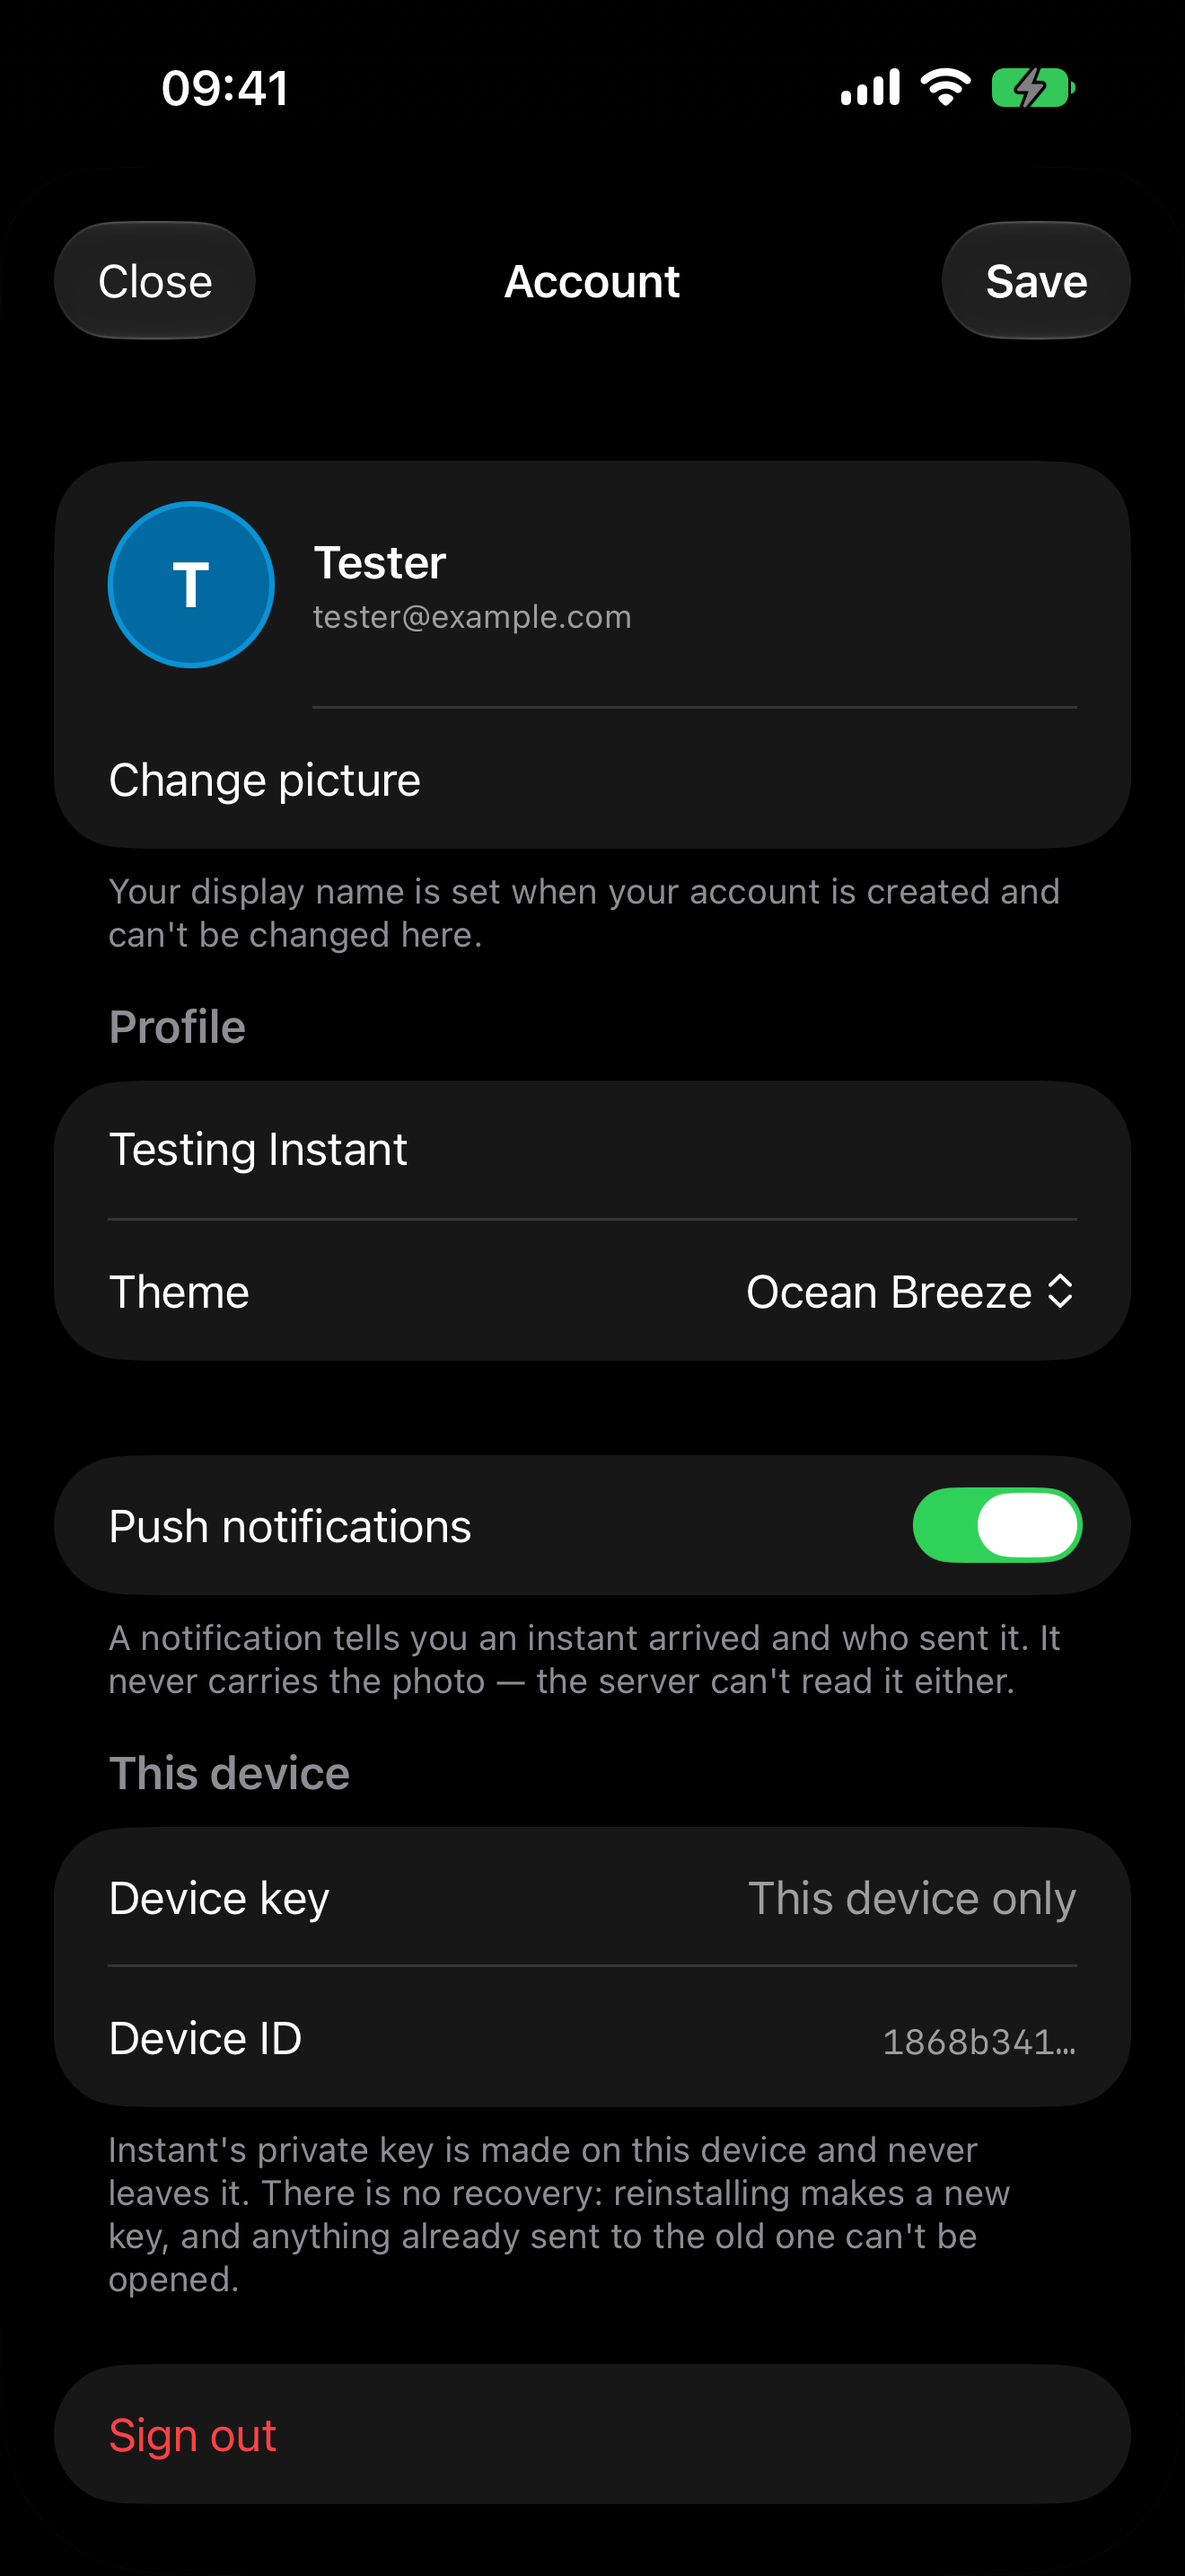
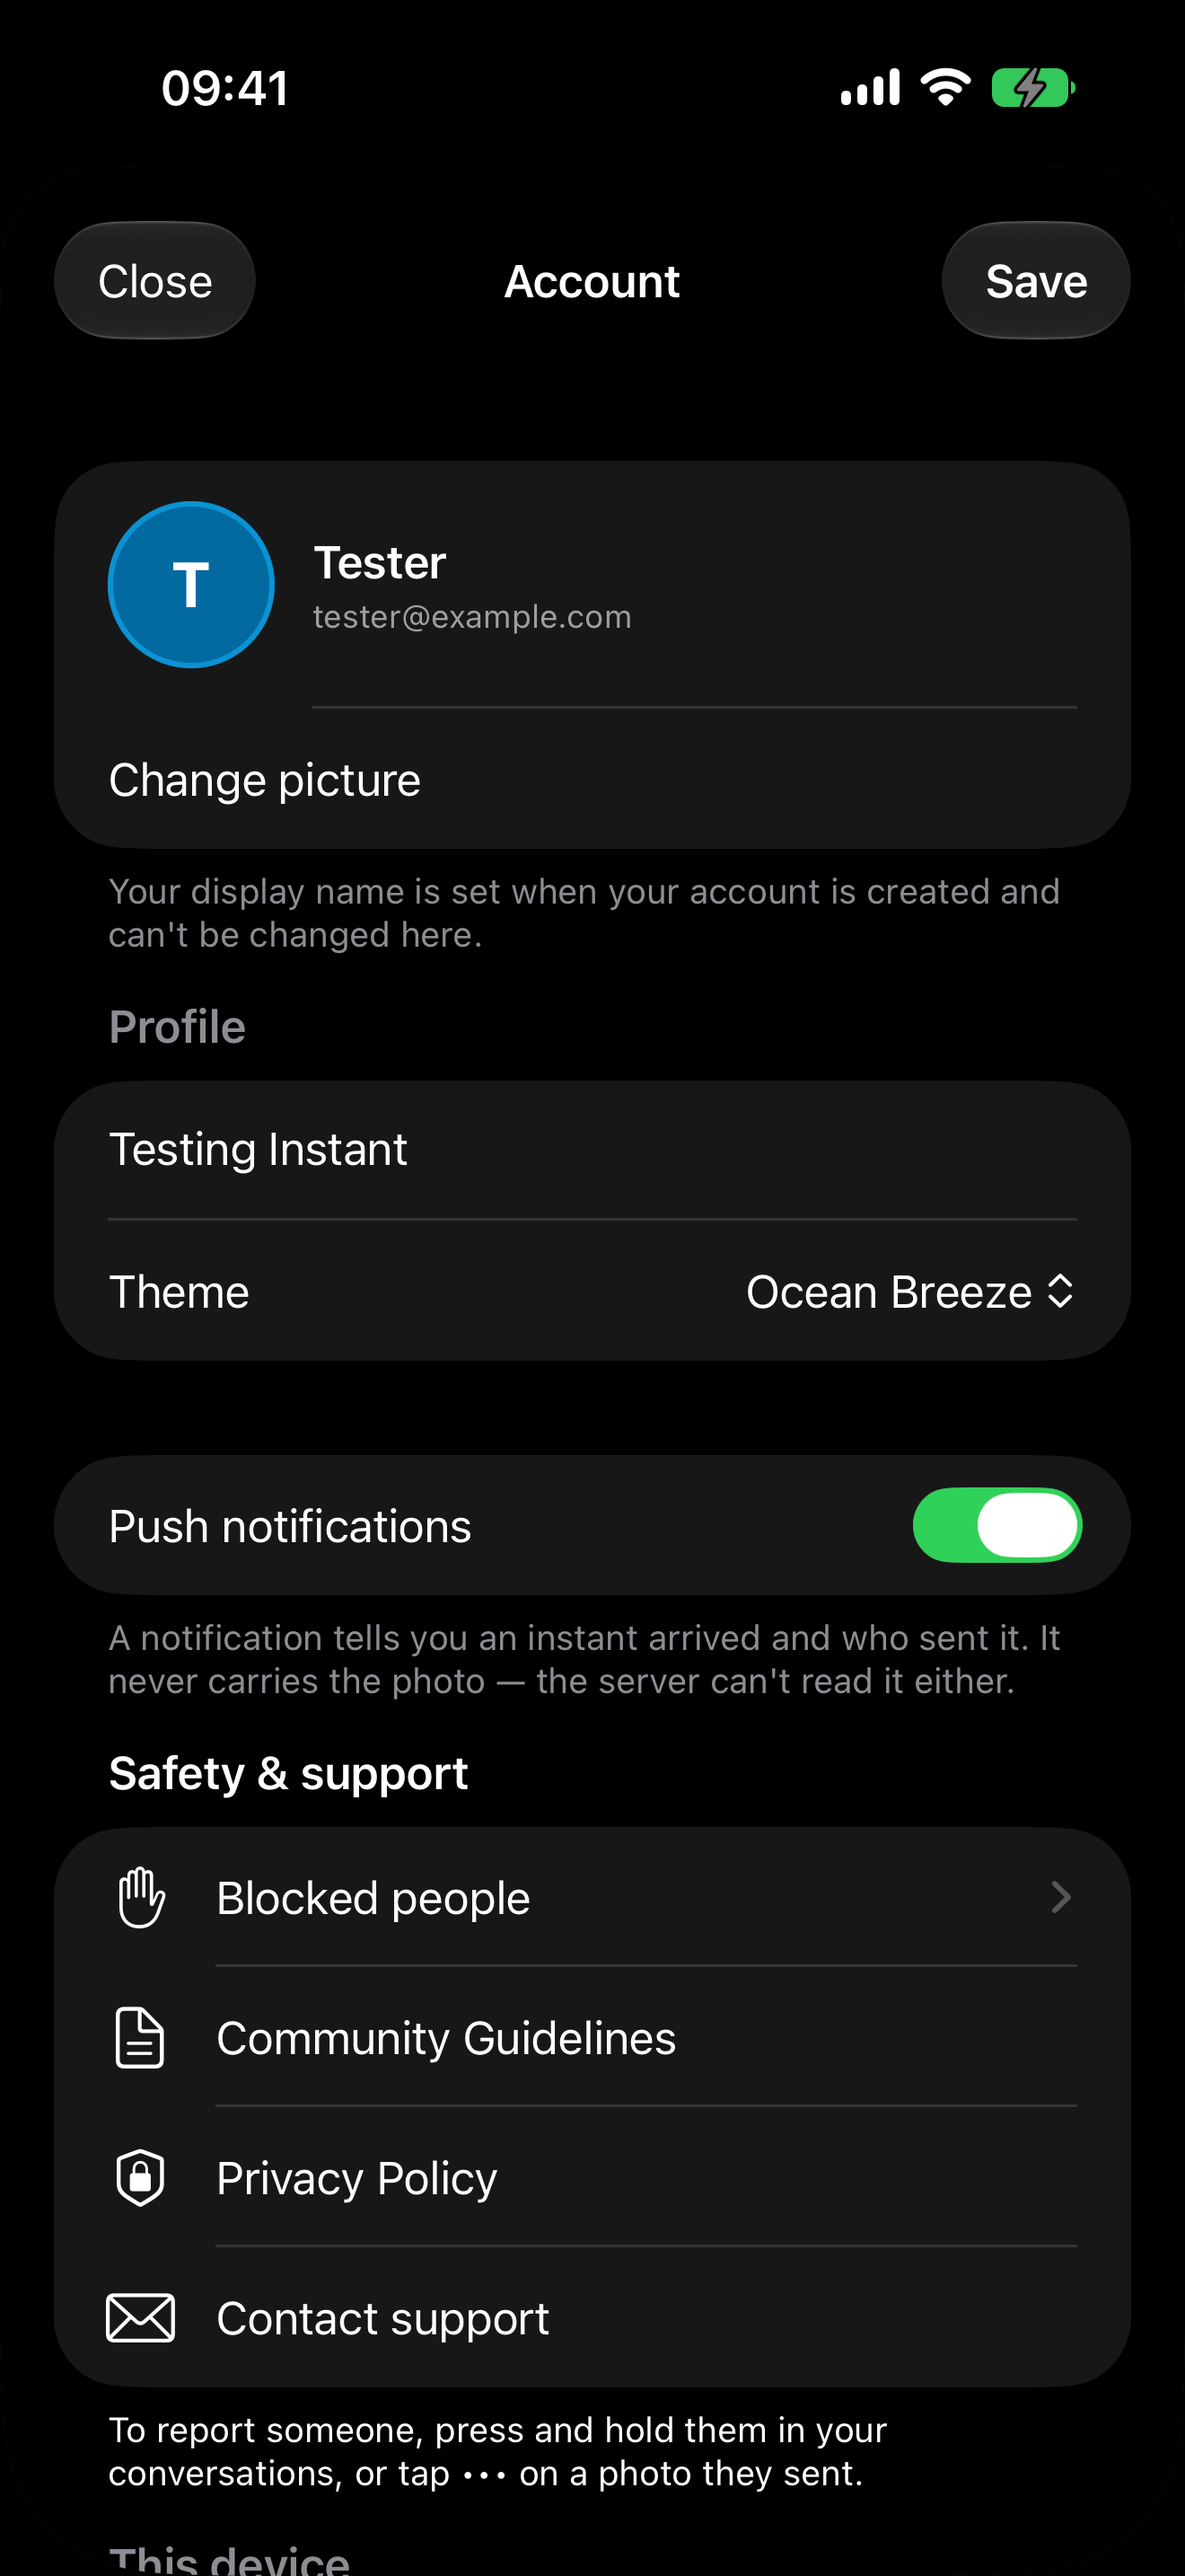
Updates

diff --git a/ios/Instant/Features/Terms/TermsScreen.swift b/ios/Instant/Features/Terms/TermsScreen.swift
@@ -13,7 +13,6 @@ struct TermsScreen: View {
     @State private var errorMessage: String?
 
     private let rules: [(symbol: String, text: String)] = [
-        ("hand.raised.fill", "No nudity, sexual content, or anything that sexualises minors."),
         ("exclamationmark.bubble.fill", "No harassment, bullying, threats or hate."),
         ("eye.slash.fill", "Don't share anyone's private information or photos without their consent."),
         ("xmark.shield.fill", "No spam, scams, or anything illegal."),

diff --git a/frontend/src/pages/Legal.tsx b/frontend/src/pages/Legal.tsx
@@ -156,7 +156,7 @@ export const Terms = () => (
       </p>
       <Bullets
         items={[
-          "is sexually explicit, or sexualises anyone under 18 in any way;",
+          "sexualises anyone under 18 in any way;",
           "harasses, threatens, bullies, stalks or intimidates anyone;",
           "promotes violence, self-harm, terrorism or hatred against people based on who they are;",
           "shares someone else's private information or intimate images without their consent;",
